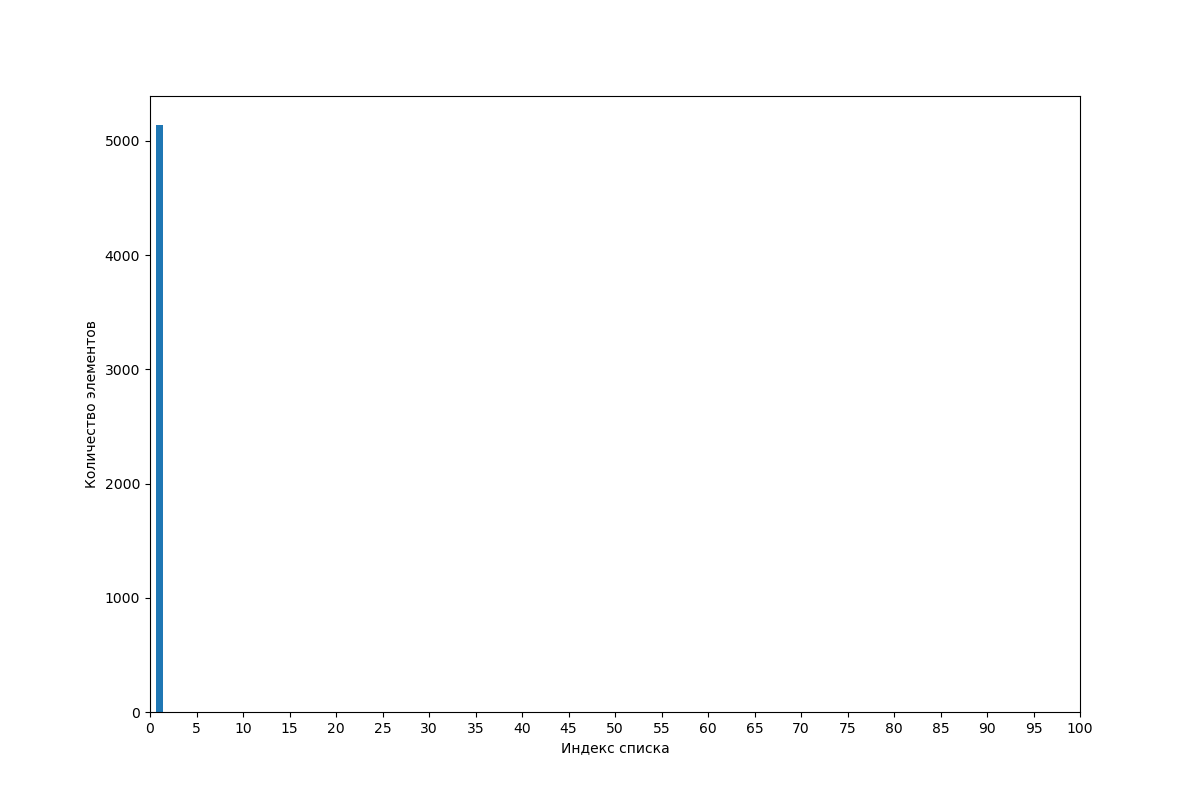
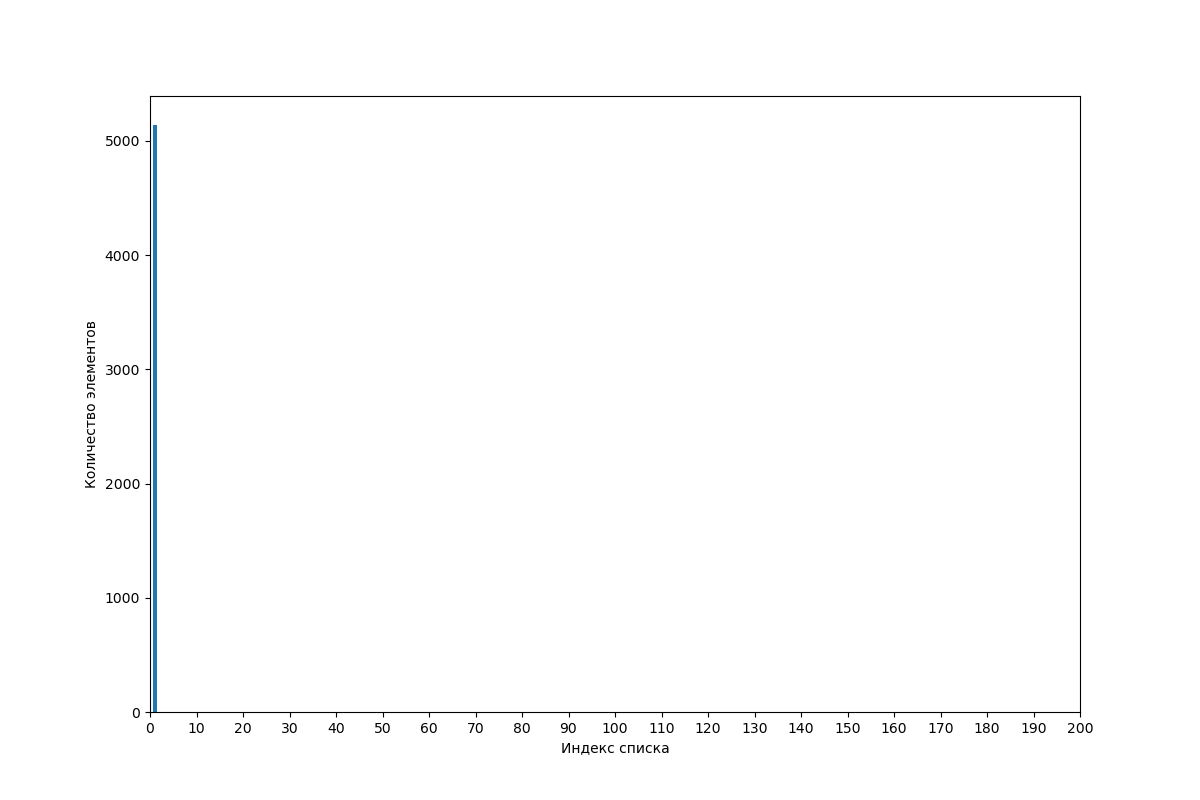
Add 3 diagrams

diff --git a/src/make_bar.py b/src/make_bar.py
@@ -4,7 +4,7 @@ import numpy as np
 fig = plt.figure( figsize = (12, 8) )
 ax = fig.add_subplot()
 
-post_file_name = "const"
+post_file_name = "len_word"
 
 data = []
 
@@ -13,10 +13,10 @@ with open( "res/output_" + post_file_name + ".csv", "r" ) as f:
 
 x = [i for i in range( len( data ) )]
 
-xmax = 100
+xmax = 200
 
 plt.xlim  ( 0, xmax )
-plt.xticks( [i for i in range( 0, xmax + 1, 5 )] )
+plt.xticks( [i for i in range( 0, xmax + 1, 10 )] )
 plt.xlabel( "Индекс списка" )
 plt.ylabel( "Количество элементов" )
 
